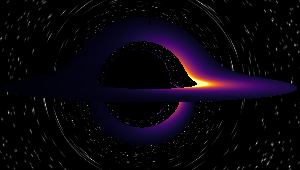
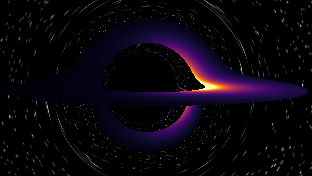
vertical artifact render fix2 (it divided by zero on 0 and pi)

diff --git a/simulation/viz/gpu_render.py b/simulation/viz/gpu_render.py
@@ -28,10 +28,13 @@ def kerr_terms(r, th, a, M):
     c2 = cos(th) ** 2
     cs = cos(th) * sin(th)
     # On the spin axis (theta = 0 or pi) Boyer-Lindquist coordinates are singular:
-    # the terms below carry 1/sin^2 and 1/sin^3 and would blow up. Floor sin here so
-    # a ray grazing the axis gets a bounded value instead of an explosive kick. The
-    # floor only bites within ~1 degree of the axis, so it changes nothing elsewhere.
-    sin_safe = torch.clamp(sin(th).abs(), min=2e-2)
+    # the terms below carry 1/sin^2 and 1/sin^3. We keep this barrier HONEST (only a
+    # tiny floor to avoid a literal divide-by-zero), because it is exactly the force
+    # that turns a near-axis ray around; flooring it harder stops the turnaround and
+    # lets the ray punch through the pole. The turnaround is instead resolved by
+    # shrinking the step near the axis (see render_frame), and any ray that still
+    # crosses the axis is reflected there.
+    sin_safe = torch.clamp(sin(th).abs(), min=1e-5)
     s2_safe = sin_safe * sin_safe
     Sig = a * a * c2 + r * r                 # Sigma = r^2 + a^2 cos^2 th
     Del = -2.0 * M * r + a * a + r * r       # Delta = r^2 - 2Mr + a^2
@@ -253,13 +256,26 @@ def render_frame(cam, a, sky, lut, disk_scale, device, n_steps=900, C0=0.02,
             break  # only a few near-critical stragglers left; call them dark
         r_before = Y[:, KR].clone()
         th_before = Y[:, KTH].clone()
-        # Step size scales with radius (big far away, small near the hole) and also
-        # shrinks toward the spin axis, where the theta motion turns around sharply
-        # for near-axis rays; without this they overshoot and scatter into a streak.
-        sin_now = torch.sin(Y[:, KTH:KTH + 1]).abs()
-        h = torch.clamp(C0 * Y[:, KR:KR + 1] * (0.2 + 0.8 * sin_now), max=0.6)
+        # Step size scales with radius (big far away, small near the hole) and
+        # shrinks toward the spin axis in proportion to sin(theta), where the theta
+        # motion turns around very sharply for near-axis rays. Without this the
+        # turnaround is overshot and those rays scatter into a vertical streak.
+        sin_now = torch.sin(Y[:, KTH:KTH + 1]).abs().clamp(min=0.04)
+        h = torch.clamp(C0 * Y[:, KR:KR + 1] * sin_now, max=0.6)
         Yn = rk4(Y, h, a, M)
         Y = torch.where(active[:, None], Yn, Y)
+
+        # Pole crossing: if a ray steps past the spin axis (theta out of [0, pi]),
+        # reflect it back and advance phi by pi. This is the exact continuation of a
+        # geodesic through the axis, and keeps BL coordinates well defined.
+        th = Y[:, KTH]
+        below = active & (th < 0.0)
+        above = active & (th > PI)
+        Y[below, KTH] = -th[below]
+        Y[above, KTH] = 2.0 * PI - th[above]
+        flip = below | above
+        Y[flip, KPHI] = Y[flip, KPHI] + PI
+        Y[flip, KPTH] = -Y[flip, KPTH]
 
         r_now = Y[:, KR]
         # horizon
